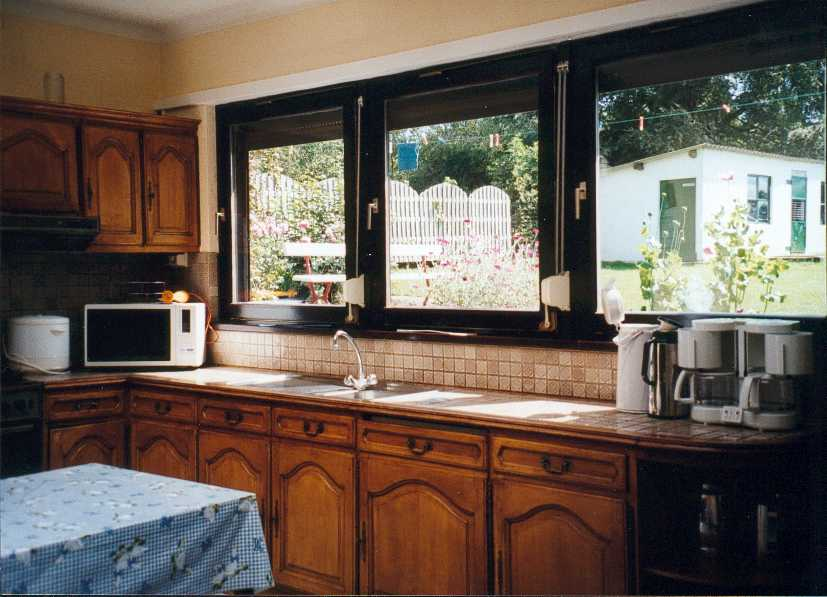
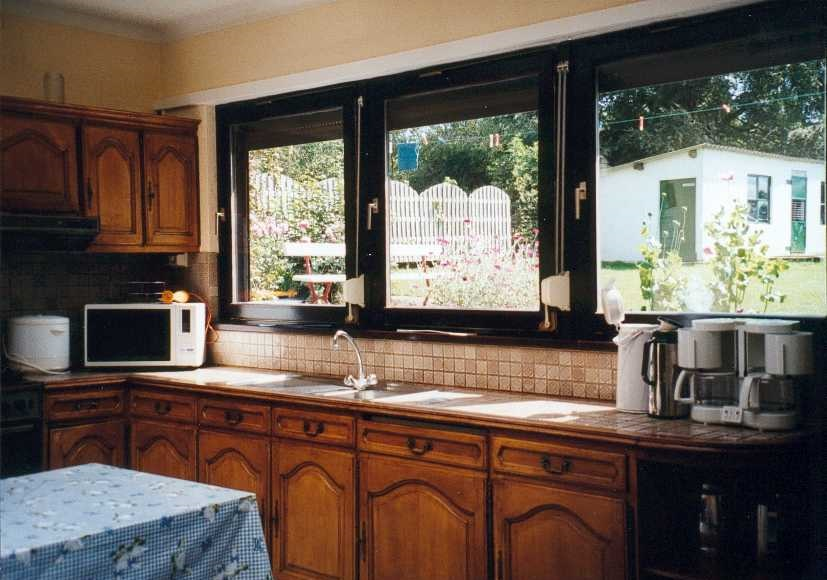
Resize images and add alt tags for SEO optimization.

diff --git a/index.html b/index.html
@@ -79,18 +79,18 @@
 <div id="images" class="image-section">
 	<div class="row justify-content-center">
 		<div class="col-md-5 col-sm-10 img-anim">
-			<img class="img-fluid" src="img/fermeleclercqz.jpg">	
+			<img class="img-fluid" src="img/fermeleclercqz.jpg" alt="ferme-leclercqz">	
 		</div>
 		<div class="col-md-5 col-sm-10">
-			<img class="img-fluid" src="img/tuin.jpg">				
+			<img class="img-fluid" src="img/tuin.jpg" alt="ferme-leclercqz-garden">				
 		</div>
 	</div>
 	<div class="row justify-content-center">
 		<div class="col-sm-5 col-xs-5">
-			<img class="img-fluid" src="img/la-grande-keuken.jpg">
+			<img class="img-fluid" src="img/la-grande-keuken.jpg" alt="ferme-leclercqz-grande-kitchen">
 		</div>
 		<div class="col-sm-5 col-xs-5">
-			<img class="img-fluid" src="img/la-petite-living.jpg">
+			<img class="img-fluid" src="img/la-petite-living.jpg" alt="ferme-leclercqz-petite-living">
 		</div>
 	</div>
 </div>
